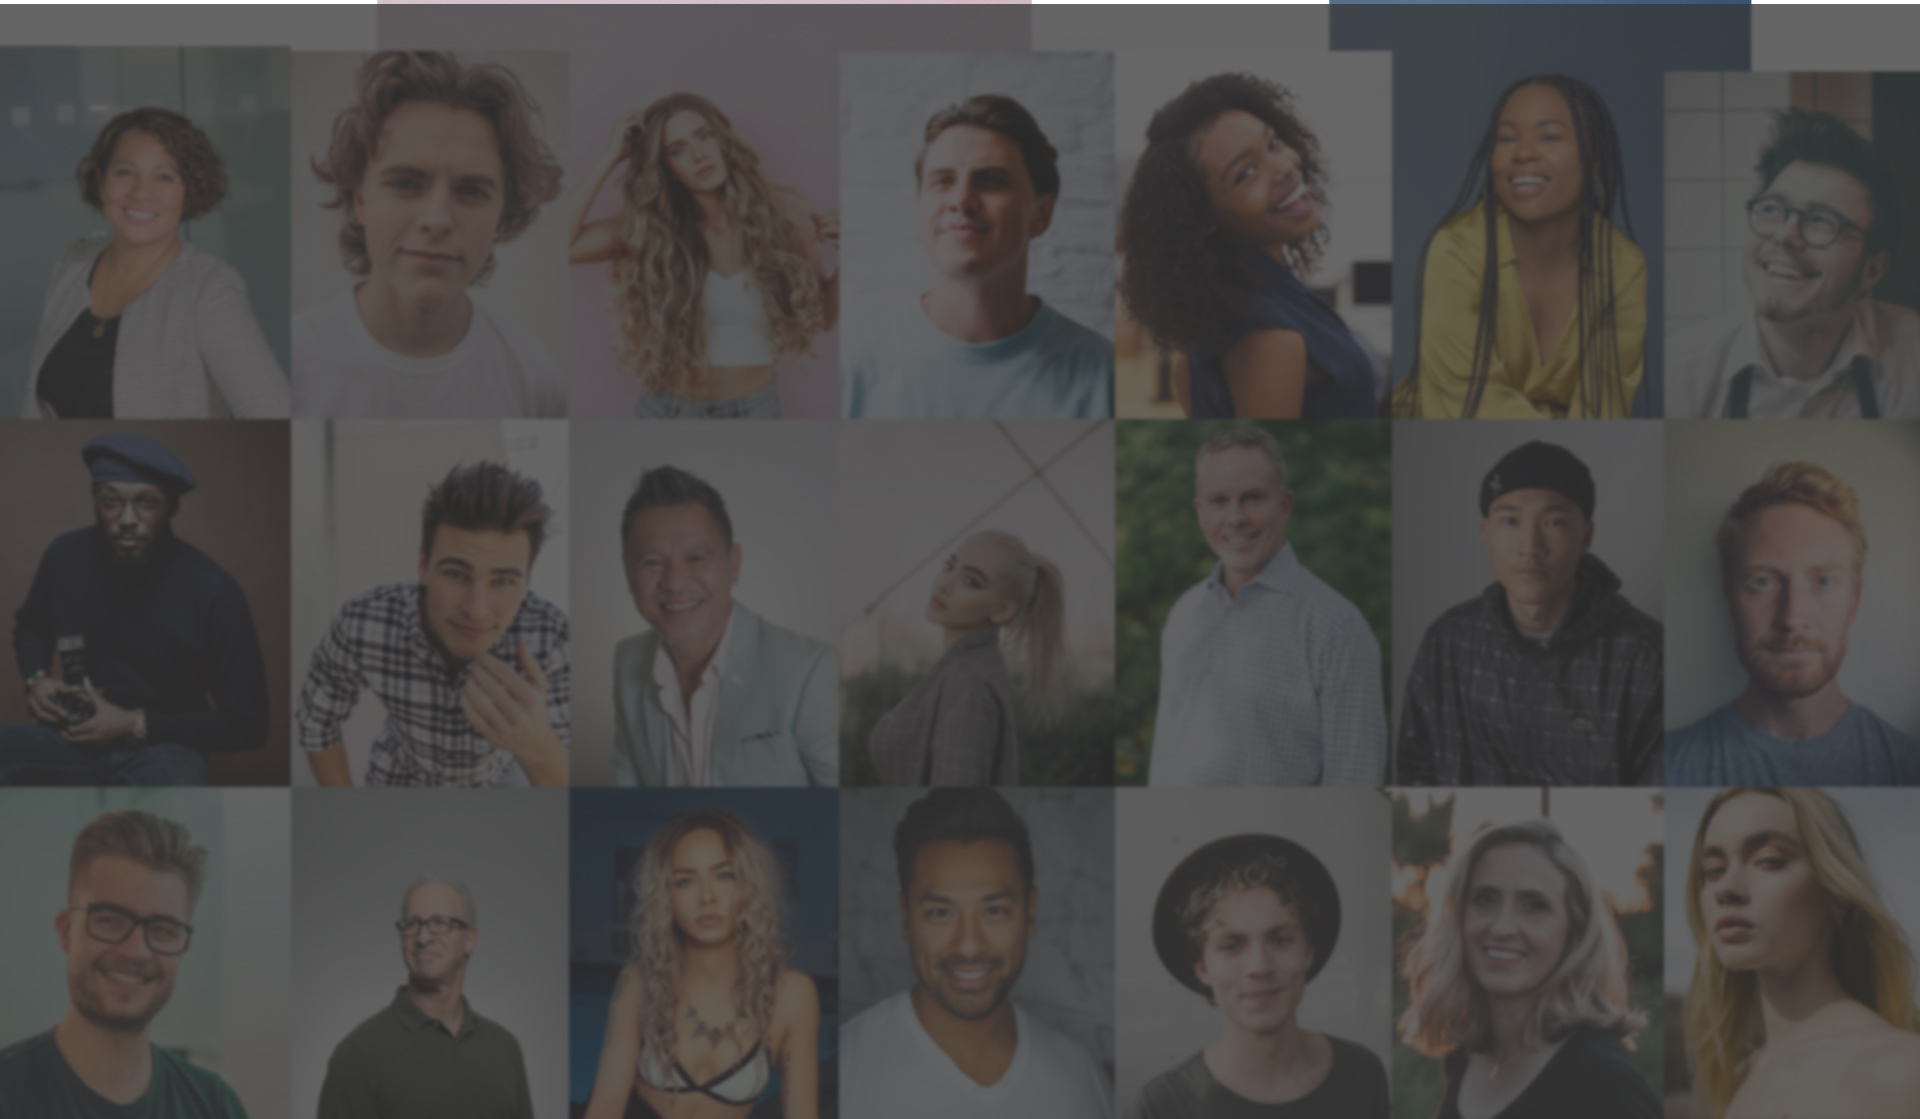
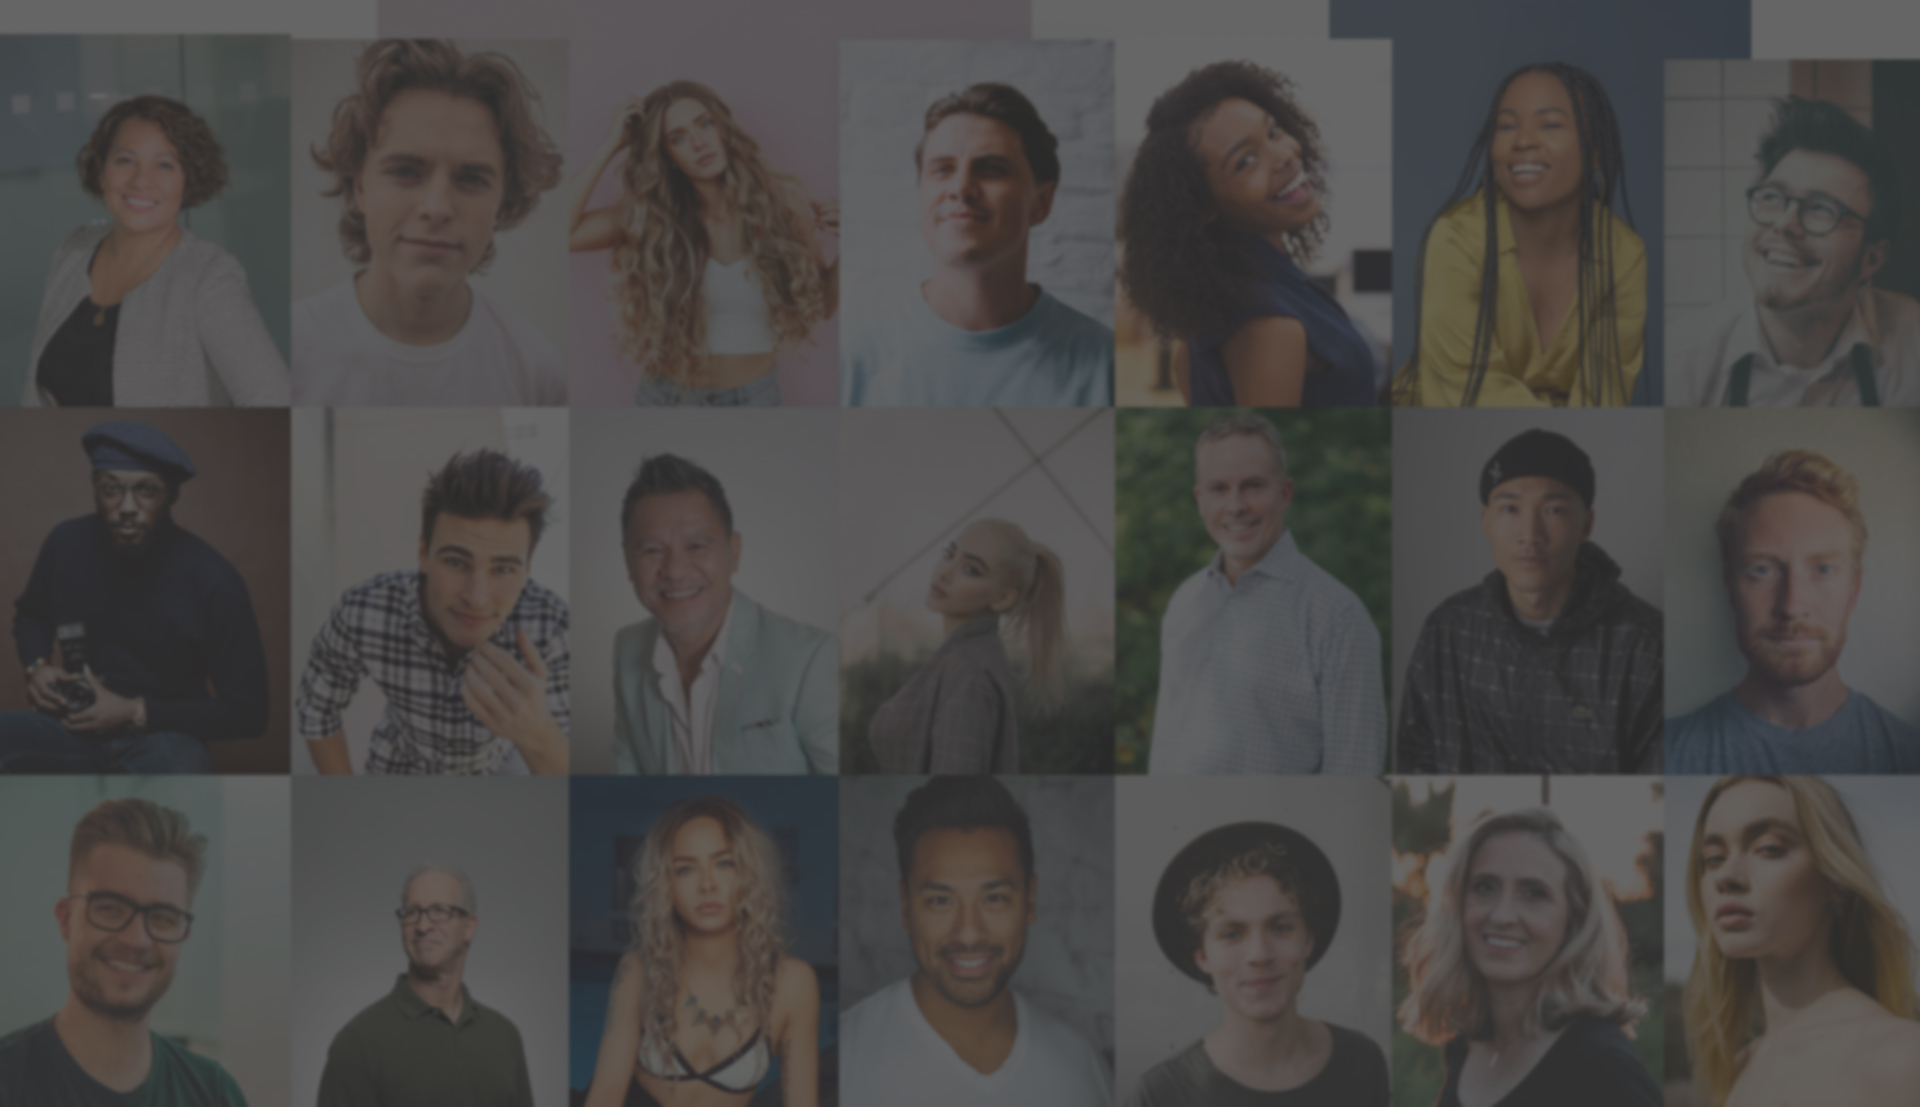
jgjhgjghjghjg

diff --git a/style.css b/style.css
@@ -172,14 +172,7 @@ button.search-icon {
     color: #fff;
 }
 
-.hero .overlay {
-    position: absolute;
-    top: 0;
-    left: 0;
-    right: 0;
-    bottom: 0;
-    background: rgba(0, 0, 0, 0.5);
-}
+
 
 .hero-content {
     position: relative;
